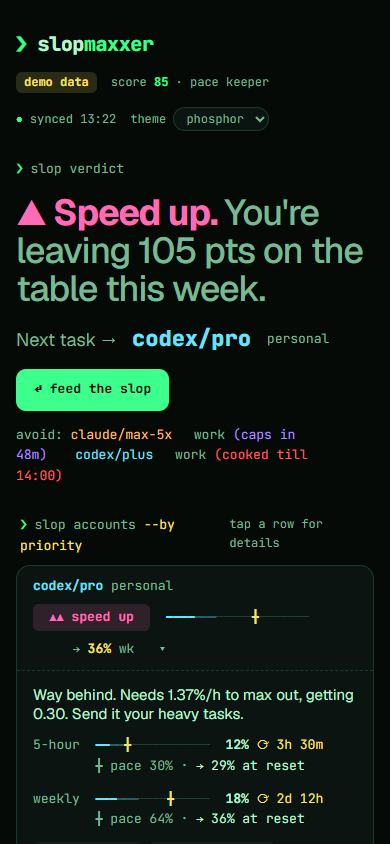
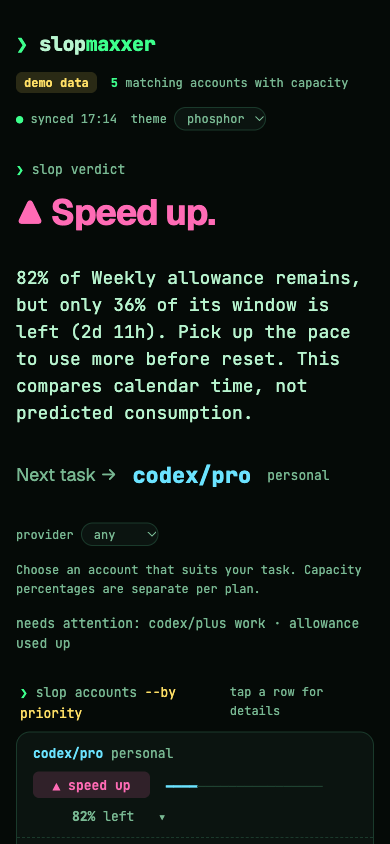
test(dashboard): cover the per-account learning fold, retake mobile shot
Reviewers noted nothing tested the fold: deleting it left the suite green.
The predicate is now sharedLearning() in public/slop.js (pure), unit-tested
for one window, all-learning and mixed windows. docs/mobile.png still showed
the retired score-based design; retaken from --demo at 390x844.

diff --git a/public/index.html b/public/index.html
@@ -154,17 +154,15 @@ const runs = (rs, a) => rs.map((r) => {
 
 const logLine = (e) => { const c = LEVEL[e.level] || LEVEL.INFO; return `<div class="logline"><span class="muted">${fmt.hm(e.ts)}</span><span class="${c[0]}" style="font-weight:700">${esc(e.level)}</span><span class="${c[1]}">${esc(e.msg)}</span></div>`; };
 
-// The "still learning" forecast; shown once per account when every window would repeat it.
-const LEARNING = S.forecastSummary({ fresh: true, known: true });
-
-function meterBlock(label, w, a, hideLearning) {
+// shared: a forecast line shown once for the account instead of under each window
+function meterBlock(label, w, a, shared) {
   const bar = `<span aria-hidden="true">${runs(S.meterGlyphs(w, 24), a)}</span>`;
   const forecast = S.forecastSummary(w);
   const outlook = w.fresh && !w.expired && w.outlook?.confidence === 'limited'
     ? `<div class="muted">Weekly demand estimate: ${w.outlook.low}–${w.outlook.high}% at reset, based on ${w.outlook.days} well-observed days. Limited confidence; this is not a reason to stop.</div>` : '';
   return `<div class="meter"><div><span class="muted">${esc(label)}</span> ${bar}</div>
     <div><b>${esc(S.windowSummary(w))}</b></div>
-    ${hideLearning && forecast === LEARNING ? '' : `<div class="muted">${esc(forecast)}</div>`}${outlook}</div>`;
+    ${forecast === shared ? '' : `<div class="muted">${esc(forecast)}</div>`}${outlook}</div>`;
 }
 
 // Day i of the 7-day history (0 = six days ago, 6 = today), as "sat 25".
@@ -174,11 +172,11 @@ const dayBreakdown = (a) => (a.dailyPct || []).map((v, i) => `${dayName(i)} ${a.
 function details(a) {
   const maxDay = Math.max(20, ...(a.dailyPct || [0]));
   const completed = (a.completedWindows || []).slice(0, 4);
-  const allLearning = a.windows.length > 1 && a.windows.every(w => S.forecastSummary(w) === LEARNING);
+  const learning = S.sharedLearning(a.windows);
   return `<div class="details" id="d-${a.id}">
     <div class="advice">${esc(a.reason)}</div>
-    ${a.windows.map(w => meterBlock(w.label, w, a, allLearning)).join('')}
-    ${allLearning ? `<div class="muted">${esc(LEARNING)}</div>` : ''}
+    ${a.windows.map(w => meterBlock(w.label, w, a, learning)).join('')}
+    ${learning ? `<div class="muted">${esc(learning)}</div>` : ''}
     <div class="stats">
       <span>Last reading: <b>${a.observedAt ? esc(fmt.dayTime(a.observedAt)) : 'unknown'}</b></span>
       ${a.resetCredits != null ? `<span>Reset credits: <b>${a.resetCredits}</b> · not assumed redeemed</span>` : ''}

diff --git a/public/slop.js b/public/slop.js
@@ -1,6 +1,6 @@
 // Display helpers; decisions live in the shared guidance module.
 export * from './guidance.js';
-import { CFG } from './guidance.js';
+import { CFG, forecastSummary } from './guidance.js';
 const minutesBetween = (a, b) => (new Date(b) - new Date(a)) / 60000;
 const clamp = (v, lo, hi) => Math.max(lo, Math.min(hi, v));
 
@@ -9,6 +9,12 @@ export function meterGlyphs(w, width) {
   if (!w.known || w.none || w.idle) return [{ text: '┄'.repeat(width), role: 'faint' }];
   const used = Math.round(w.usedPct / 100 * width);
   return [{ text: '━'.repeat(used), role: 'used' }, { text: '─'.repeat(width - used), role: 'faint' }];
+}
+
+/** The "still learning" forecast when every one of several windows would repeat it (show it once), else null. */
+export function sharedLearning(windows) {
+  const learning = forecastSummary({ fresh: true, known: true });
+  return windows.length > 1 && windows.every(w => forecastSummary(w) === learning) ? learning : null;
 }
 
 /** 7-day refill strip, one glyph per 2h starting at local midnight today. */
